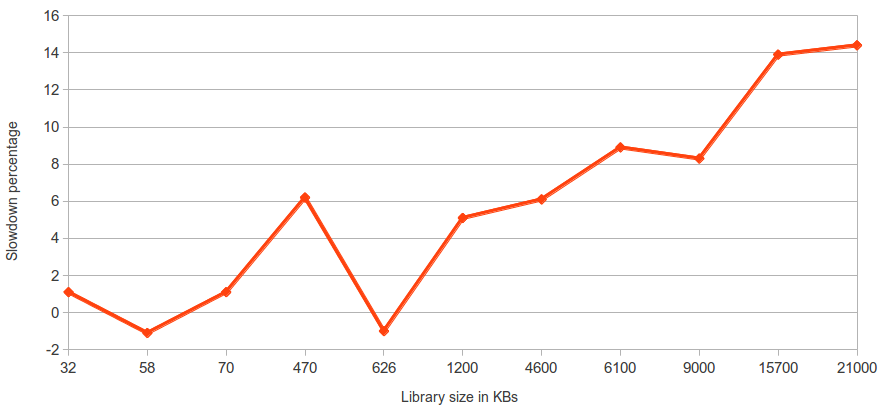
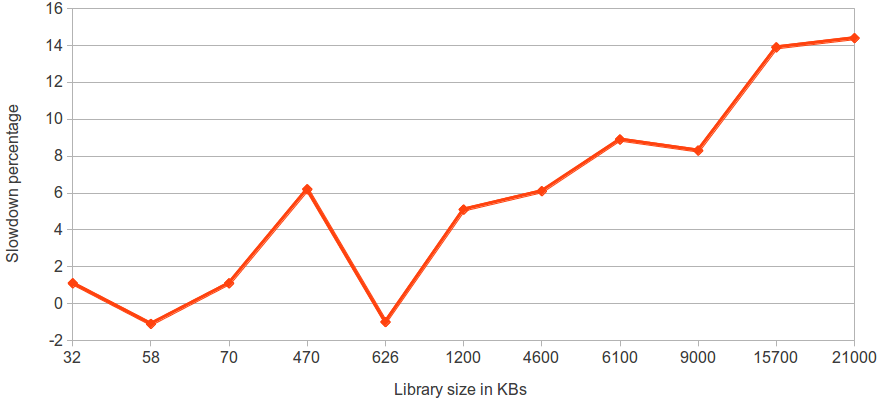
Few corrections and some more in numa section

Changed region(s): [[0.0304, 0.0, 1.0, 0.9851], [0.0, 0.2687, 0.0912, 0.6567], [0.9426, 0.2687, 0.973, 0.3284]]

diff --git a/doc/evaluation.tex b/doc/evaluation.tex
@@ -2,8 +2,8 @@
 
 \begin{figure}
     \centering
-    \includegraphics[scale=0.35]{remoteVsLocal.png}
-    \caption{Comparision of remote vs local library. N0, N1, N2, N3 are nodes in NUMA machine. Shared library is at N3 }
+    \includegraphics[scale=0.38]{remoteVsLocal.png}
+    \caption{Comparison of remote vs local library. N0, N1, N2, N3 are nodes in NUMA machine. Shared library is at N3 }
     \label{fig:remoteVsLocal}
 \end{figure}
 
@@ -14,7 +14,8 @@ We tried to see that slowdown in the case of shared libraries, which are also th
 The shared library was placed on node N3.
 Then we wrote a main thread which called functions from this shared library.
 We ran the main thread on each of the four nodes (N0,N1,N2,N3).
-Main thread called 0.1 million functions from the library in sequential order.
+Main thread called 0.1 million functions from the library in sequential order with offset equal to cache size.
+Which means we called functions in a way that every next function called must be a cache miss.
 Figure \ref{fig:remoteVsLocal} shows the result.
 We measured the total number of CPU cycles consumed, stalled cycles and page faults in each case.
 We observed that in the case when our main thread was running locally (i.e. on node N3), it consumed minimum number of CPU cycles.
@@ -29,7 +30,7 @@ From the slowdown Matrix in figure \ref{fig:numaMatrix} we see that N0 is farthe
 
 \begin{figure}
     \centering
-    \includegraphics[scale=0.35]{smallFunc.png}
+    \includegraphics[scale=0.38]{smallFunc.png}
     \caption{Performance with small sized functions. Shared library is at N3 }
     \label{fig:smallFunc}
 \end{figure}
@@ -52,14 +53,14 @@ Number of CPU cycles consumed by remote nodes were more than those consumed by t
 
 \begin{figure}
     \centering
-    \includegraphics[scale=0.35]{randomDistribution.png}
+    \includegraphics[scale=0.38]{randomDistribution.png}
     \caption{Library functions called in random order by main thread. Shared library is at N3 }
     \label{fig:randomDistribution}
 \end{figure}
 
 \begin{figure}
     \centering
-    \includegraphics[scale=0.35]{zipfDistribution.png}
+    \includegraphics[scale=0.38]{zipfDistribution.png}
     \caption{Library functions called in Zipfian order (with alpha=0.5) by main thread. Shared library is at N3 }
     \label{fig:zipfDistribution}
 \end{figure}
@@ -67,16 +68,15 @@ Number of CPU cycles consumed by remote nodes were more than those consumed by t
 Till now we were calling the functions from the shared library in sequential order.
 We wanted to vary our function calling pattern to random and zipfian distributions.
 In reality it is not necessary that an application is using all the functions of a library and in sequential order.
-Instruction caching favours sequential order and to negate the effect of caching we wanted to test random and zipfian distributions.
+Instruction caching favors sequential order and to negate the effect of caching we wanted to test random and zipfian distributions.
 
 \textbf{Sequential} - Figure \ref{fig:remoteVsLocal} shows the results for sequential calling pattern
 
 \textbf{Random} - Figure \ref{fig:randomDistribution} shows the results for calling library functions in random order.
-The difference in the CPU cycles consumed by N3 (local) and N0,N1,N2 (remote) looks more pronounced.
 
 \textbf{Zipf} - Figure \ref{fig:zipfDistribution} shows the results for calling library functions in zipfian order.
 According to zipfian distribution there will be a bunch of functions which will be called more frequently than others.
-Therefore instruction caching will favour the performance in this case.
+Therefore instruction caching will favor the performance in this case.
 Due to which the difference in the CPU cycles consumed by N3 (local) and N0,N1,N2 (remote) is not great.
 
 
@@ -84,7 +84,7 @@ Due to which the difference in the CPU cycles consumed by N3 (local) and N0,N1,N
 
 \begin{figure}
     \centering
-    \includegraphics[scale=0.37]{slowdownWithSize.png}
+    \includegraphics[scale=0.39]{slowdownWithSize.png}
     \caption{Slowdown with increasing library size }
     \label{fig:slowdownWithSize.png}
 \end{figure}
@@ -98,9 +98,9 @@ But with the increasing size of library, it will be tough to get the whole libra
 Therefore library instructions will be fetched as and when needed.
 
 The main thread calls the library functions in sequential order.
-And number of calls made by the main thread is equale to the number of functions available in the library.
+And number of calls made by the main thread is equal to the number of functions available in the library.
 For example, our 32KB library had 50 functions and main thread made 50 calls.
-Reason behind not doing equale number of calls for all the libraries was to avoid the page fault factor in CPU cycles measured.
+Reason behind not doing equal number of calls for all the libraries was to avoid the page fault factor in CPU cycles measured.
 Lets say we do one million calls for a library with ten thousand functions, some functions will be called repeatedly in cyclic order and will cause page faults.
 Setup was very much similar to above experiments, we had our library on one node and main thread ran on all the four nodes.
 We then measure the CPU cycles consumed by local and remote node for each library.

diff --git a/doc/numa.tex b/doc/numa.tex
@@ -1,16 +1,20 @@
-With the increasing number of cores per processor, having an SMP architecture becomes tough.
-To accommodate more cores per processors Non Uniform Memory Architecture (NUMA) came into existence.
-NUMA acrhitecture has proved to be scalable with increasing number of cores.
-But the physical arrangement of the processors on the chip, so that they are equidistant from each other is a tough problem.
-Due to which there are varied distances between different pairs of processors.
-This gives rise to various combinations of memory and thread placement, resulting into varied data access costs.
+With the increasing number of cores per processor, accommodating them in an SMP architecture is becoming tough.
+Due to which the Non Uniform Memory Architecture (NUMA) came into existence.
+NUMA architecture has proved to be scalable with increasing number of cores.
+But the physical arrangement of the processors on the chip, keeping them equidistant from each other is a hard problem.
+This has resulted into varied distances between different pairs of processors.
+In a NUMA machine various combinations of memory and thread placement are possible, each with varied data access costs.
 Having said that, the next problem is the optimistic scheduling of threads and data.
 
-A typical NUMA machine has Nodes connected to each other via bus called as interconnect.
-Each node hosts few number of cores, each having their own L1 and L2 caches, and a L3 cache shared by all the cores.
-Along with a full hierarchy of caches, each node is allocated a seperate memory.
+Work done by Majo et. al. \cite{Majo:2011:MMN:1993478.1993481} has demonstrated the various combinations of thread and data placement along with their associated penalties.
+They have also proposed a NUMA aware scheduler in their work.
+We believe that the impact of NUMA on the code section of processes is still unexplored.
 
-Work described in \cite{Majo:2011:MMN:1993478.1993481} has shown the penalties of data access across inteerconnect and proposed a NUMA aware scheduler.
+A typical NUMA machine has Nodes connected to each other via a bus called interconnect.
+Each node hosts few number of cores, each core has its own L1 and L2 cache, and L3 cache is shared by all the cores in the same node.
+Along with a full hierarchy of caches, each node is allocated a separate memory.
+
+Work done in \cite{Drepper07whatevery} has shown the penalties of data access between processors via interconnect..
 Figure \ref{fig:numaMatrix} shows a penalty matrix in terms of data fetch overhead for the AMD Opteron machine we have used for our experiments.
 We placed the data on one node and let threads placed on all four nodes to modify that data.
 For example, in the first row, Node N0 holds the data and all four nodes, N0, N1, N2, N3 have threads modifying the data.
@@ -25,3 +29,17 @@ We have repeated the experiment by placing data on each of the other three nodes
     \label{fig:numaMatrix}
 \end{figure}
 
+\textbf{NUMA APIs - }
+In this section we will look into some of the libraries exposed for programmers to control data allocation and thread allocation for NUMA machines.
+Cache related and topology related information about the NUMA hardware can be found at:
+ 
+\texttt{/sys/devices/system/cpu/cpu*/cache } \\
+\\
+\texttt{ /sys/devices/system/cpu/cpu*/topology }
+
+\textit{numactl} is a library which we have used for this work.
+It has various APIs which can control the cores and nodes to which the process and data can be bound.
+We have used \textit{pin_to_core()} function to pin a specific thread on a given core.
+Similarly \textit{numa_alloc_onnode()} allows the programmer to allocate data on a specific node.
+\textit{numactl} also has various command-line arguments like \textit{cpubind} and \textit{membind} to bind processes and data to specific nodes.
+And the \textit{hardware} flag provides info about the underlying NUMA hardware.

diff --git a/doc/introduction.tex b/doc/introduction.tex
@@ -13,7 +13,7 @@ modern NUMA hardware has much smaller remote wire delays, and so remote access c
 concern for performance, instead, congestion on memory controllers and interconnects, caused by memory traffic 
 from data-intensive applications, hurts performance a lot more.
 
-Another work by Majo et. al. \cite{Majo:2011:MMN:1993478.1993481} tends to exploit the tradeoff between cache contention
+Another work by Majo et. al. \cite{Majo:2011:MMN:1993478.1993481} tends to exploit the trade-off between cache contention
 and interconnect overhead while scheduling threads on NUMA machines. Running two threads of a process on the same socket
 avoids interconnect overhead but experiences a penalty in terms of cache contention, as last level cache are shared for
 threads running on the same socket, Whereas scheduling two threads on different sockets can avoid cache contention
@@ -41,6 +41,6 @@ node from both these perspectives and discuss the results. We also discuss some 
 The remainder of the paper is organized as follows. In the next section, we discuss a little bit about shared libraries and 
 then talk about our experimental setup. In section 3, we will discuss at length the motivation, results and also the explanation
 of the results for each of the experiments performed. In section 4, we will discuss about some ideas that could potentially improve
-the system performance with shared libraries on NUMA machines and talk about the roadmap to their implementation in future works.
+the system performance with shared libraries on NUMA machines and talk about the road map to their implementation in future works.
 Finally we conclude, highlighting the key observations from our experiments.
 
